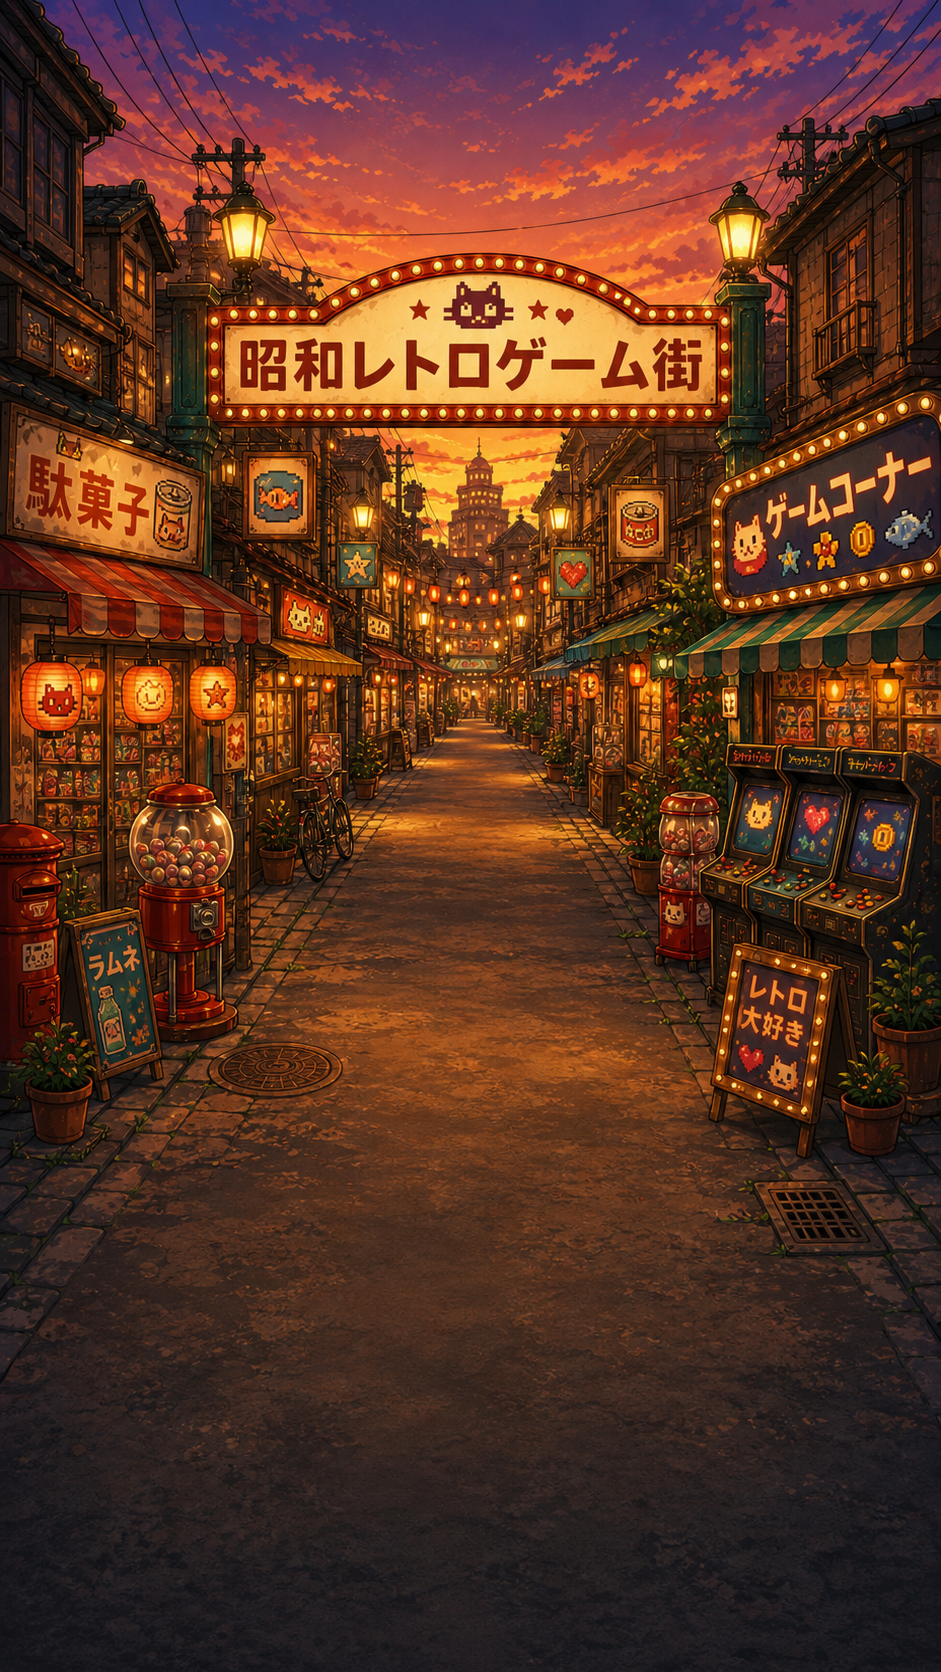
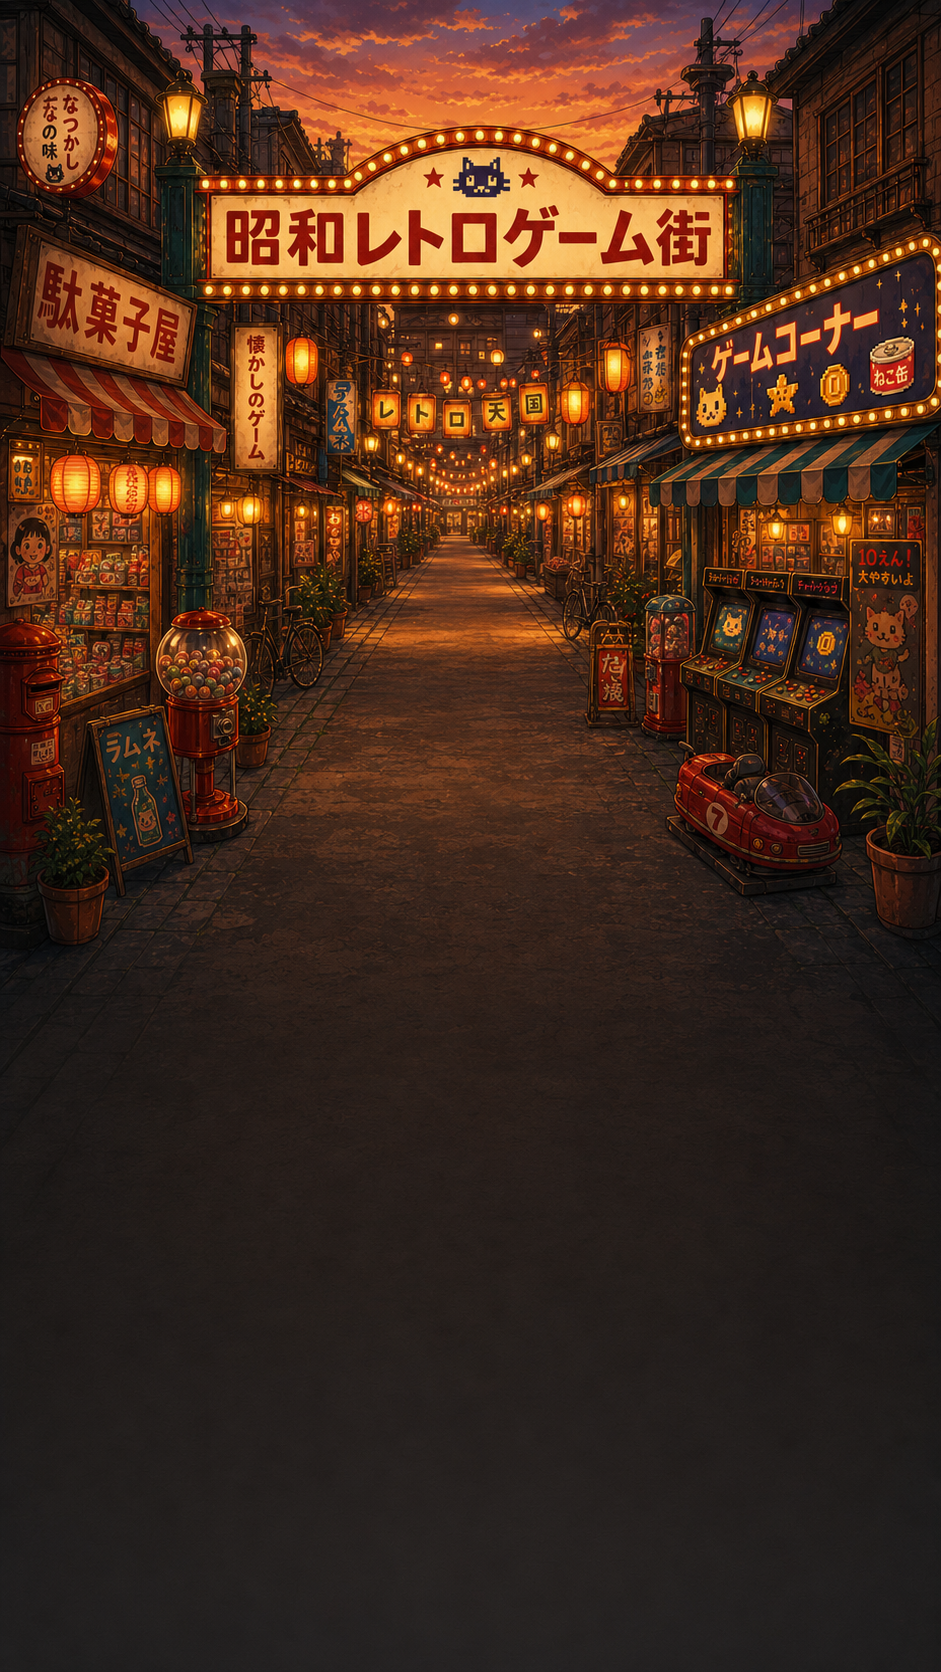
Add files via upload

diff --git a/style.css b/style.css
@@ -205,15 +205,15 @@ a {
 
 @media (max-width: 768px) {
   .hero-content {
-    padding-top: 14px;
+    padding-top: 10px;
   }
 
   .ticker {
-    margin: clamp(320px, 44vh, 420px) auto 14px;
+    margin: clamp(235px, 32vh, 320px) auto 12px;
   }
 
   .game-grid {
-    margin-top: 12px;
+    margin-top: 10px;
   }
 }
 
@@ -230,12 +230,12 @@ a {
 
   .hero-content {
     width: min(100% - 22px, 1120px);
-    padding-top: 14px;
+    padding-top: 10px;
   }
 
   .ticker {
     height: 32px;
-    margin: clamp(320px, 44vh, 420px) auto 12px;
+    margin: clamp(235px, 32vh, 320px) auto 10px;
   }
 
   .game-grid {
